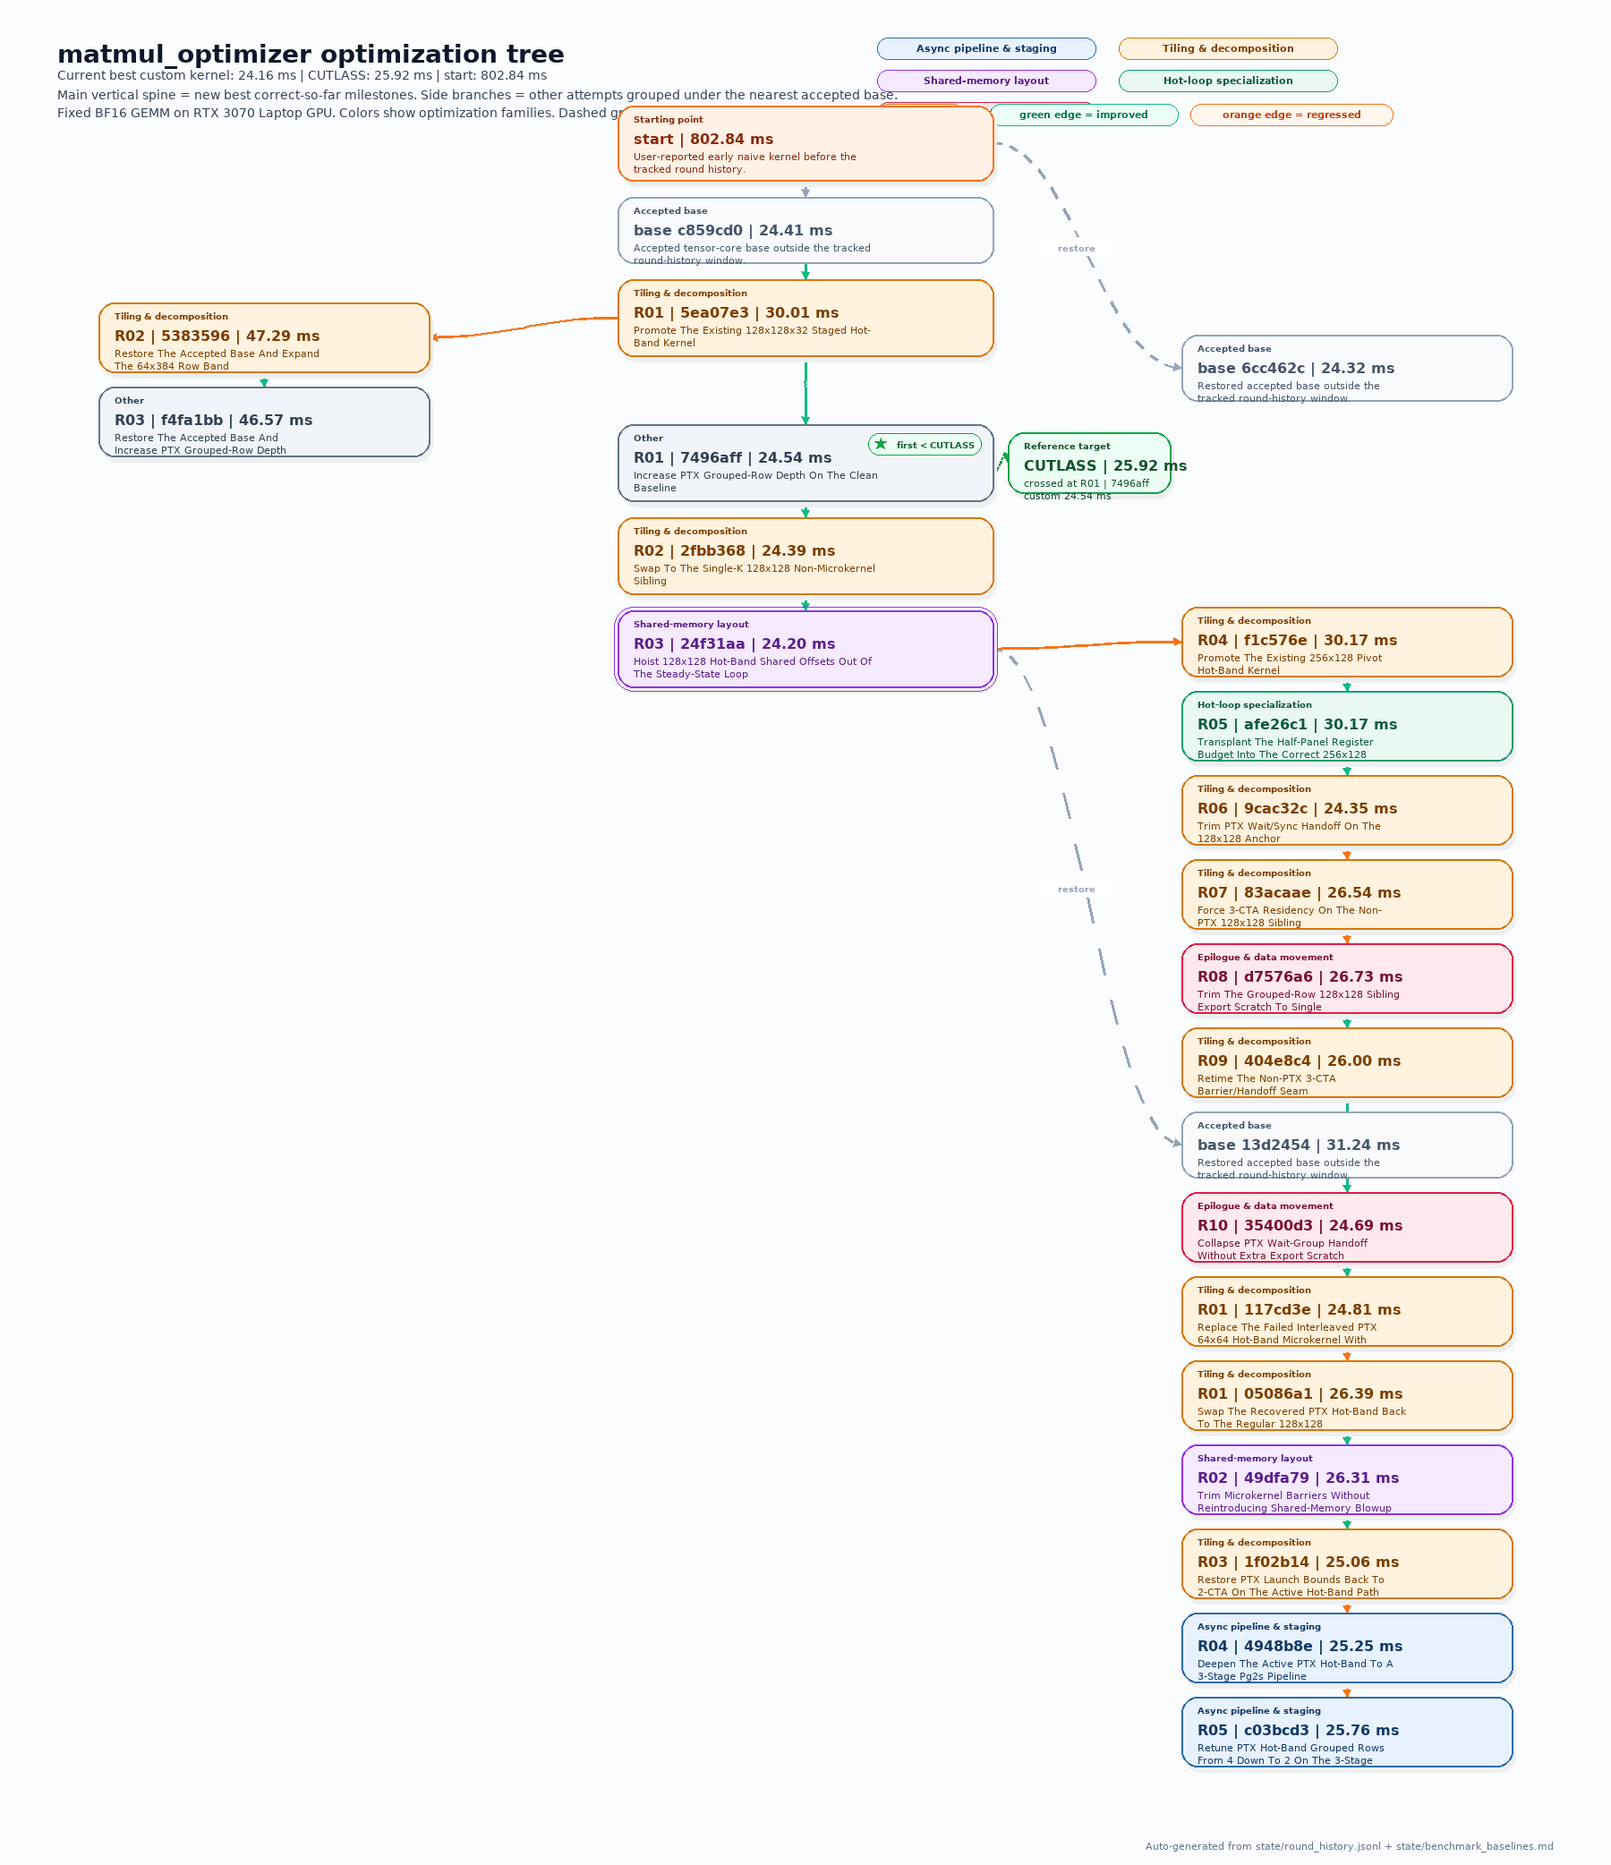
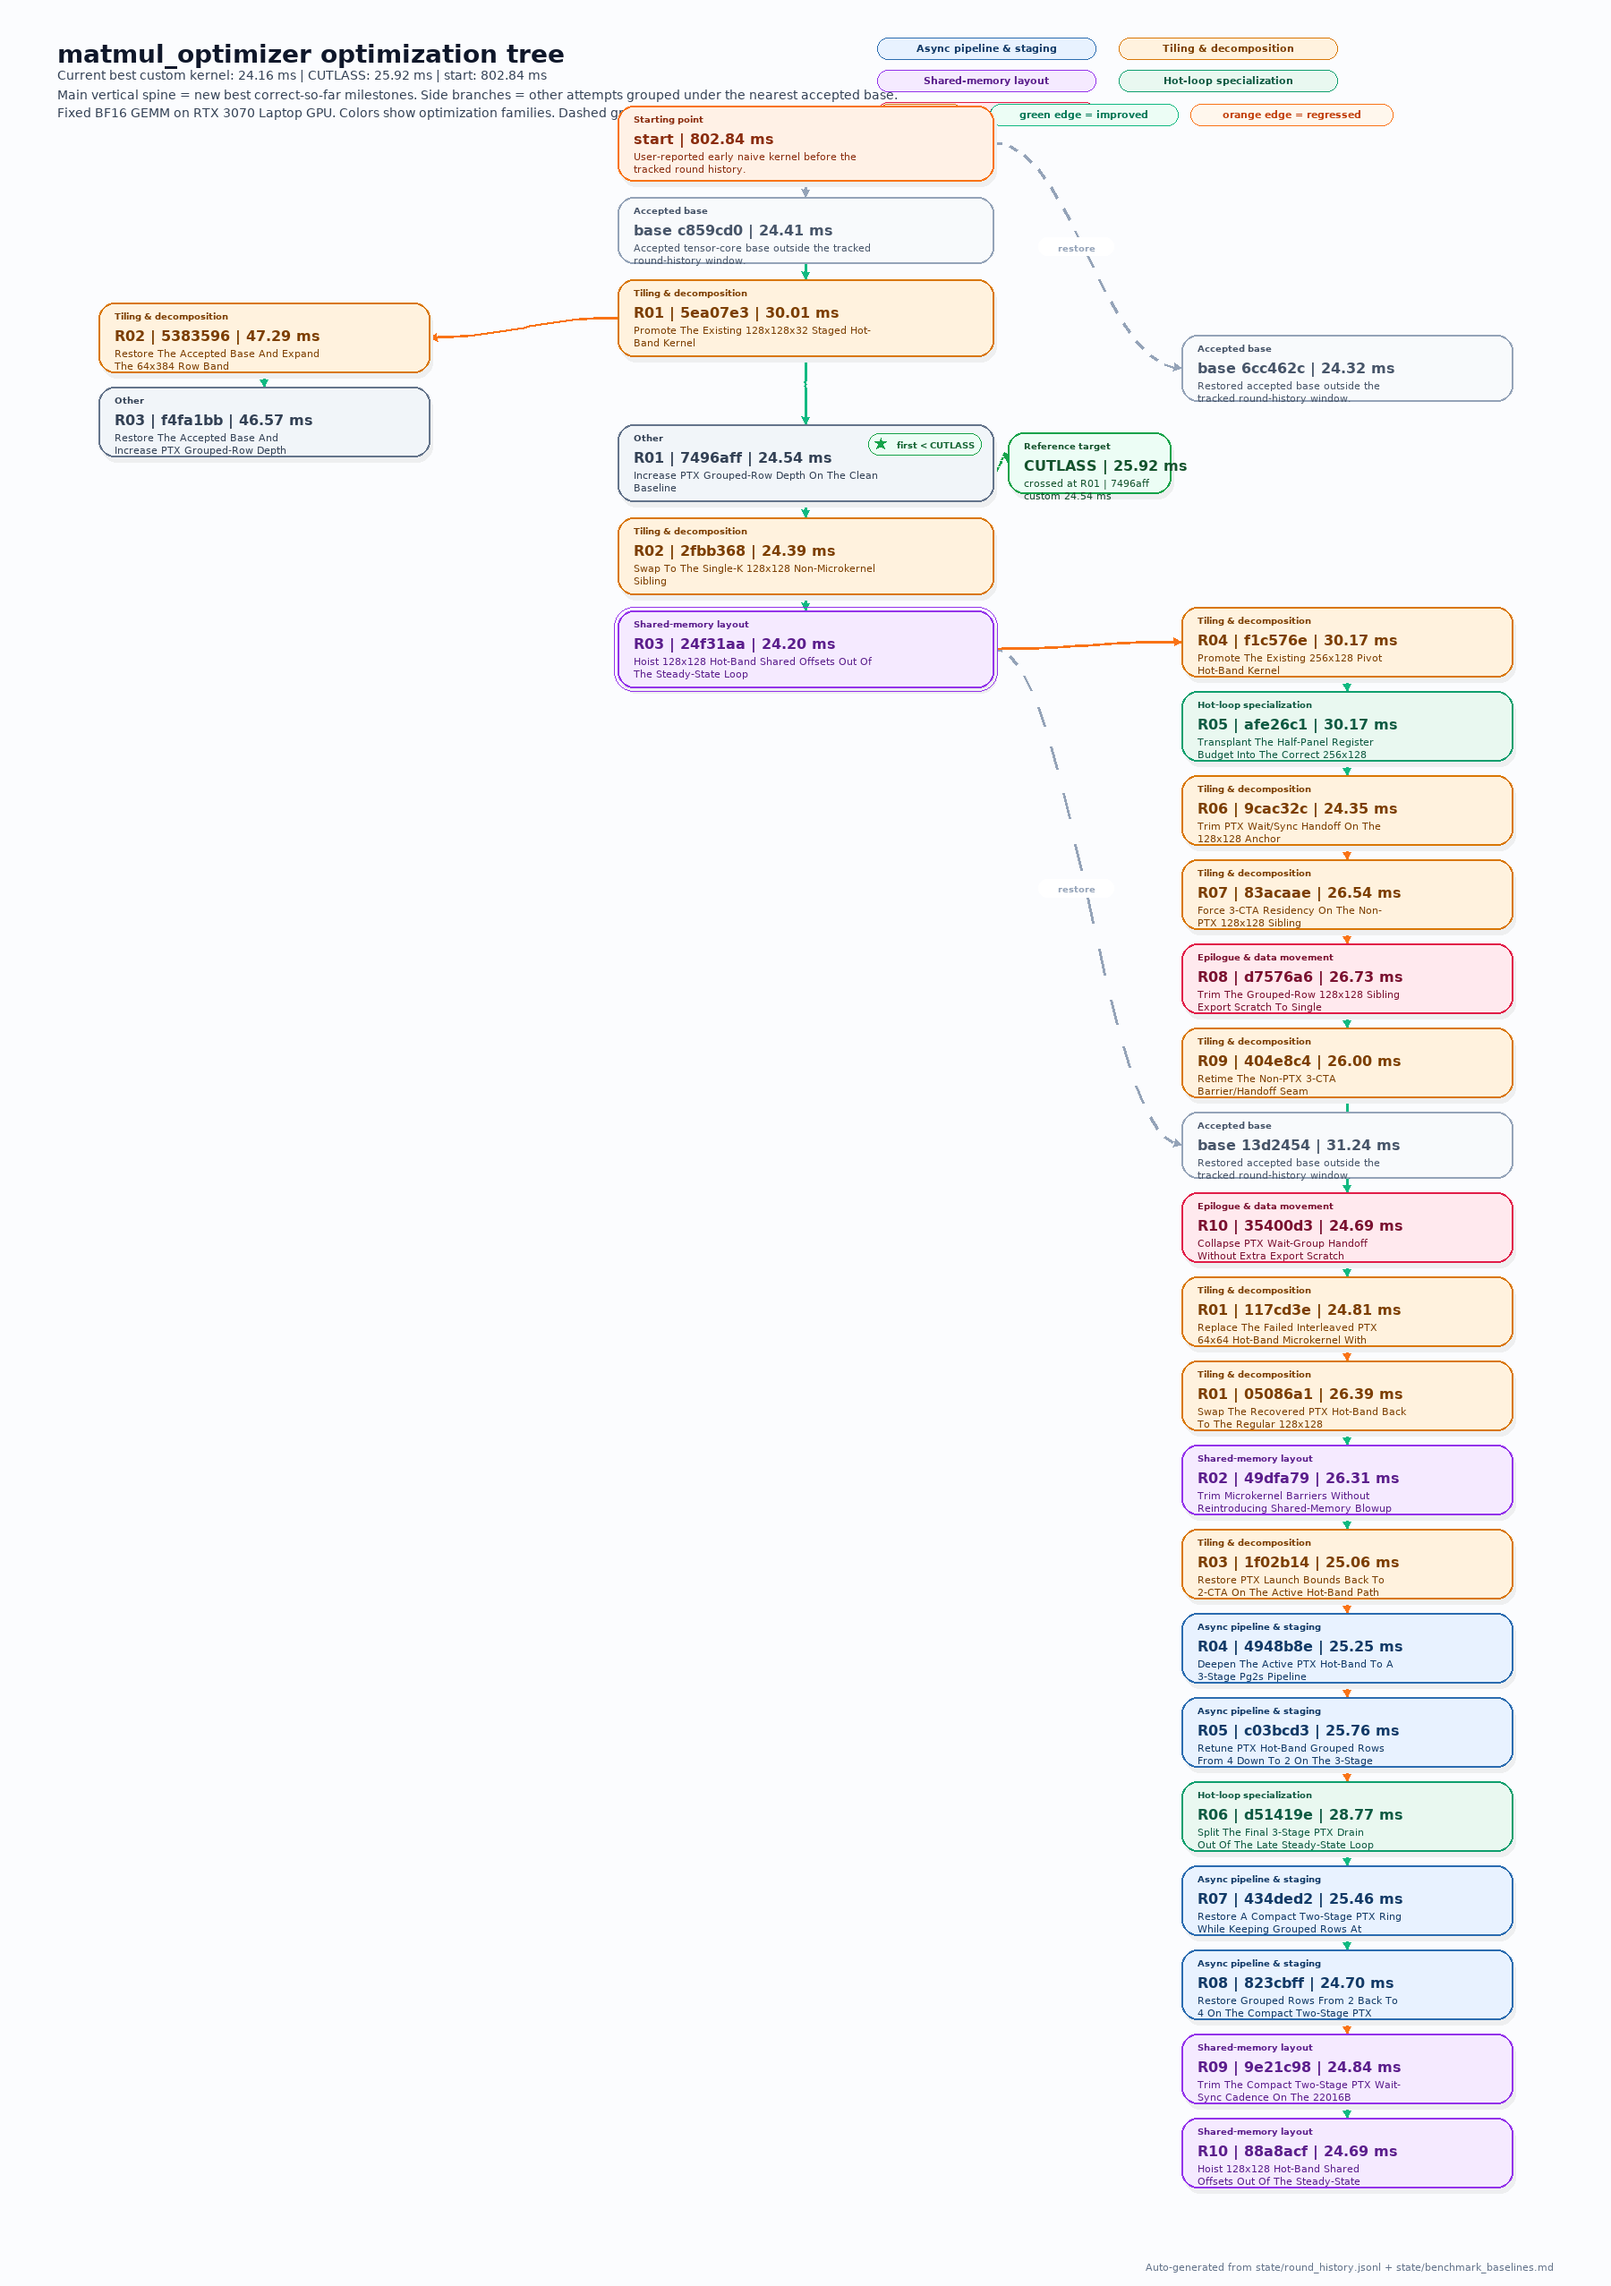
infra: refresh blog and README benchmark snapshot

Changed region(s): [[0.0311, 0.0, 0.9644, 0.9669], [0.0622, 0.1248, 0.28, 0.2495]]

diff --git a/blog/harness-engineering-human-in-the-loop-cuda-matmul/index.md b/blog/harness-engineering-human-in-the-loop-cuda-matmul/index.md
@@ -253,11 +253,11 @@ That narrowness is the point.
 
 I am not trying to claim a general matmul breakthrough. I am trying to test how far **harness engineering + profiling + human steering + LLM assistance** can go in a realistic constrained setup.
 
-The tree below is regenerated from the latest tracked round history in the current refactor branch, which now spans **19 recorded measurement rounds**, so it shows the live exploratory commits while keeping the official best snapshot anchored to the current recorded-best commit **`489574e`**.
+The tree below is regenerated from the latest tracked round history in the current refactor branch, which now spans **24 recorded measurement rounds**, so it shows the live exploratory commits while keeping the official best snapshot anchored to the current recorded-best commit **`489574e`**.
 
 This refactor checkpoint is intentionally separated from the older large-history search. The branch keeps the public benchmark snapshot fixed at the recorded best while the new queue/frontier loop rebuilds evidence on top of a smaller clean baseline and a local cuBLASLt reference.
 
-The latest 5-round frontier-only refactor loop revalidated the compact PTX accepted base at **24.81 ms**, then probed PTX launch-bounds, a 3-stage Pg2s ring, and grouped-row retunes between about **25.06 ms** and **25.76 ms**. So the public best still did not move, but the branch now shows a live frontier-driven search running on top of the cleaner cuBLASLt-backed refactor baseline instead of the older tangled large-history worktree.
+The latest 5-round frontier-only refactor loop started from a failed 3-stage drain-split branch at about **28.77 ms**, recovered the compact two-stage PTX path, restored **grouped_rows = 4**, and then trimmed the current frontier-accepted base to about **24.69 ms** with a small hot-band offset-hoist exploit. So the public best still did not move, but the branch now shows a live frontier-driven search that has largely re-stabilized the compact PTX family on top of the cleaner cuBLASLt-backed refactor baseline instead of the older tangled large-history worktree.
 
 At the moment, the official benchmark snapshot in the repo is:
 - custom kernel: **24.16 ms**

diff --git a/README.md b/README.md
@@ -344,7 +344,7 @@ That narrowness is the point.
 
 I am not trying to claim a general matmul breakthrough. I am trying to test how far harness engineering, profiling, human steering, and LLM assistance can go in a realistic constrained setup.
 
-The tree asset below is regenerated from the latest tracked round history in this refactor branch, which now spans `19` recorded measurement rounds, so it reflects the current exploratory commits while keeping the official best snapshot anchored to the current recorded-best commit `489574e`.
+The tree asset below is regenerated from the latest tracked round history in this refactor branch, which now spans `24` recorded measurement rounds, so it reflects the current exploratory commits while keeping the official best snapshot anchored to the current recorded-best commit `489574e`.
 
 At the moment, the official benchmark snapshot in the repo is:
 
@@ -352,7 +352,7 @@ At the moment, the official benchmark snapshot in the repo is:
 - local CUTLASS baseline: `25.917889 ms`
 - result: `1.753616 ms` faster than CUTLASS, or `6.766049%` lower runtime, enough to show the harness can cross a strong local baseline on one fixed problem while still leaving room to validate and extend the win
 
-The latest 5-round frontier-only refactor loop revalidated the compact PTX accepted base at `24.806945 ms`, then probed PTX launch-bounds, a 3-stage Pg2s ring, and grouped-row retunes between `25.063408 ms` and `25.755136 ms`. The public best therefore remains unchanged, but the tree now captures a live frontier-driven search on top of the cleaner cuBLASLt-backed refactor branch.
+The latest 5-round frontier-only refactor loop started from a failed 3-stage drain-split branch at `28.767664 ms`, recovered the compact two-stage PTX path, restored `grouped_rows=4`, and then trimmed the current frontier-accepted base to `24.689153 ms` with a small hot-band offset-hoist exploit. The public best still did not move, but the tree now shows a live frontier-driven search that has largely re-stabilized the compact PTX family on top of the cleaner cuBLASLt-backed refactor branch.
 
 ## Major Workflow Updates
 
